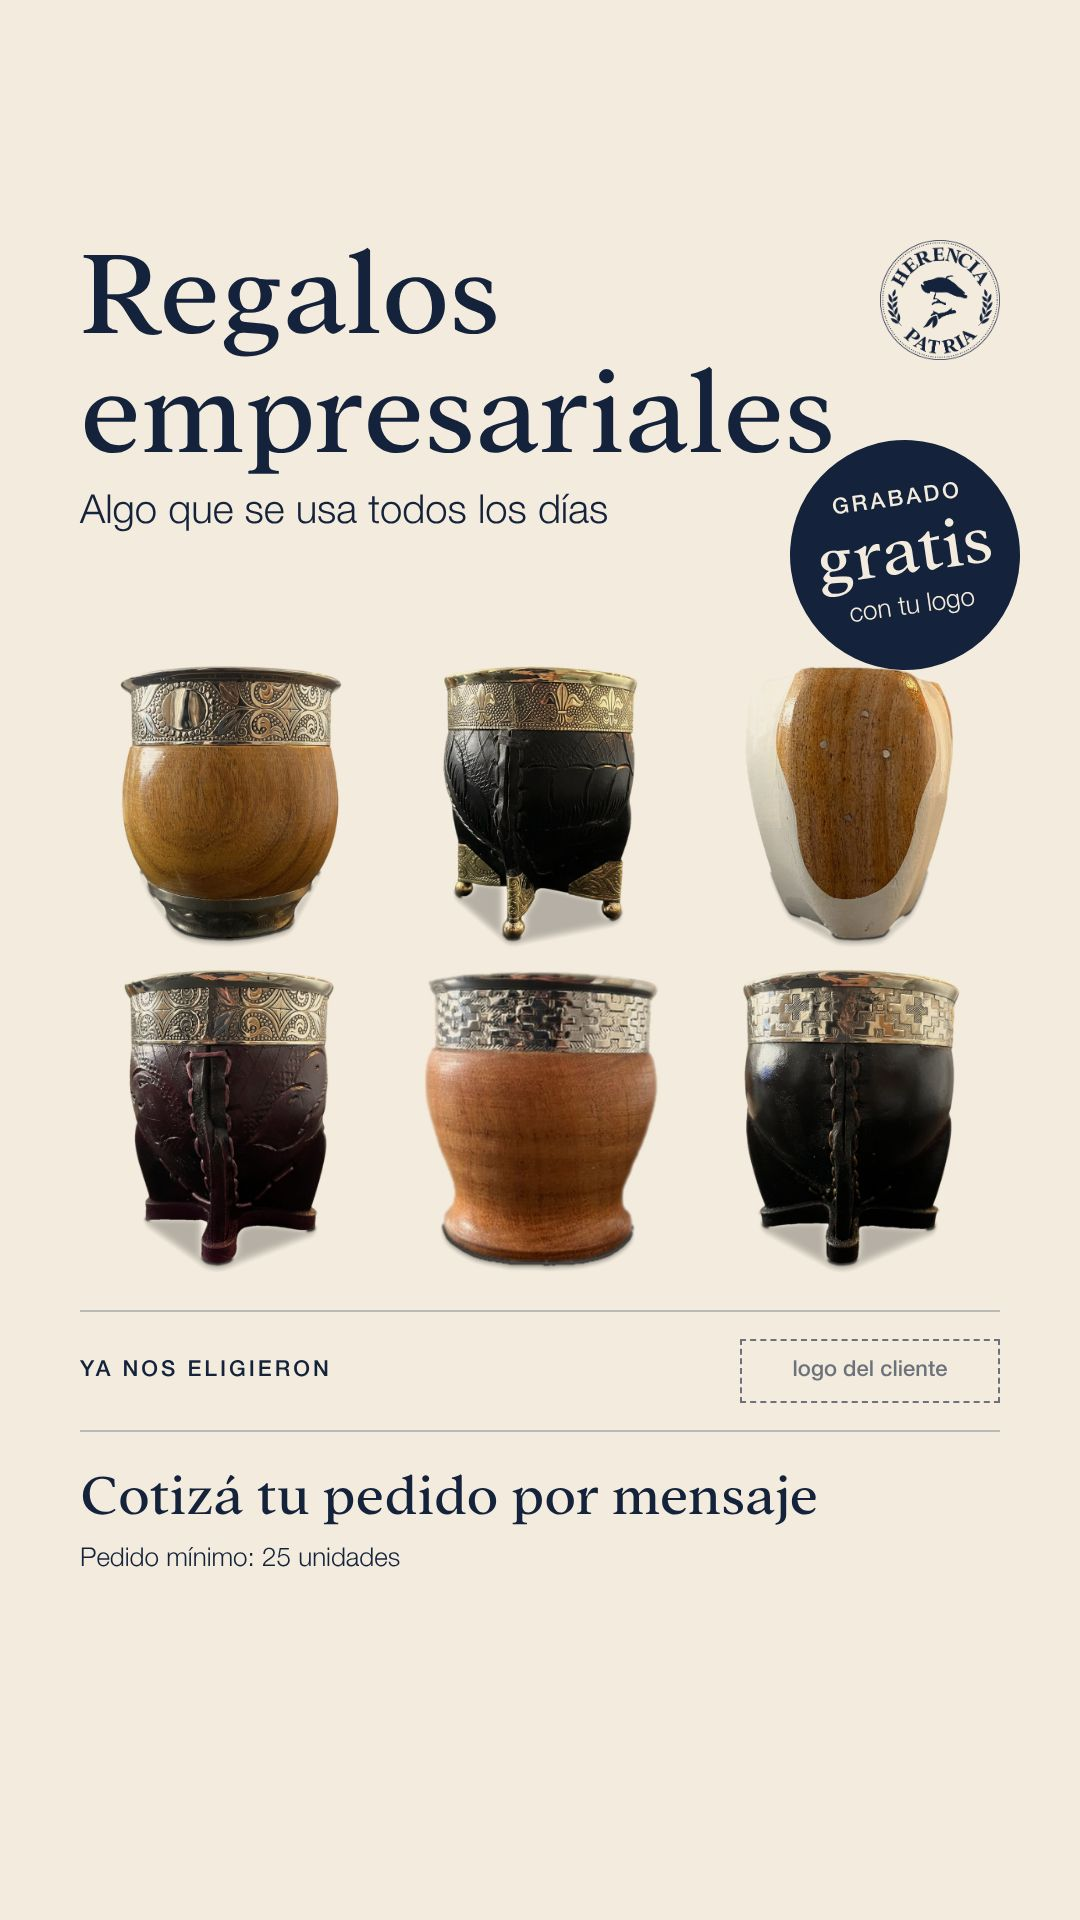
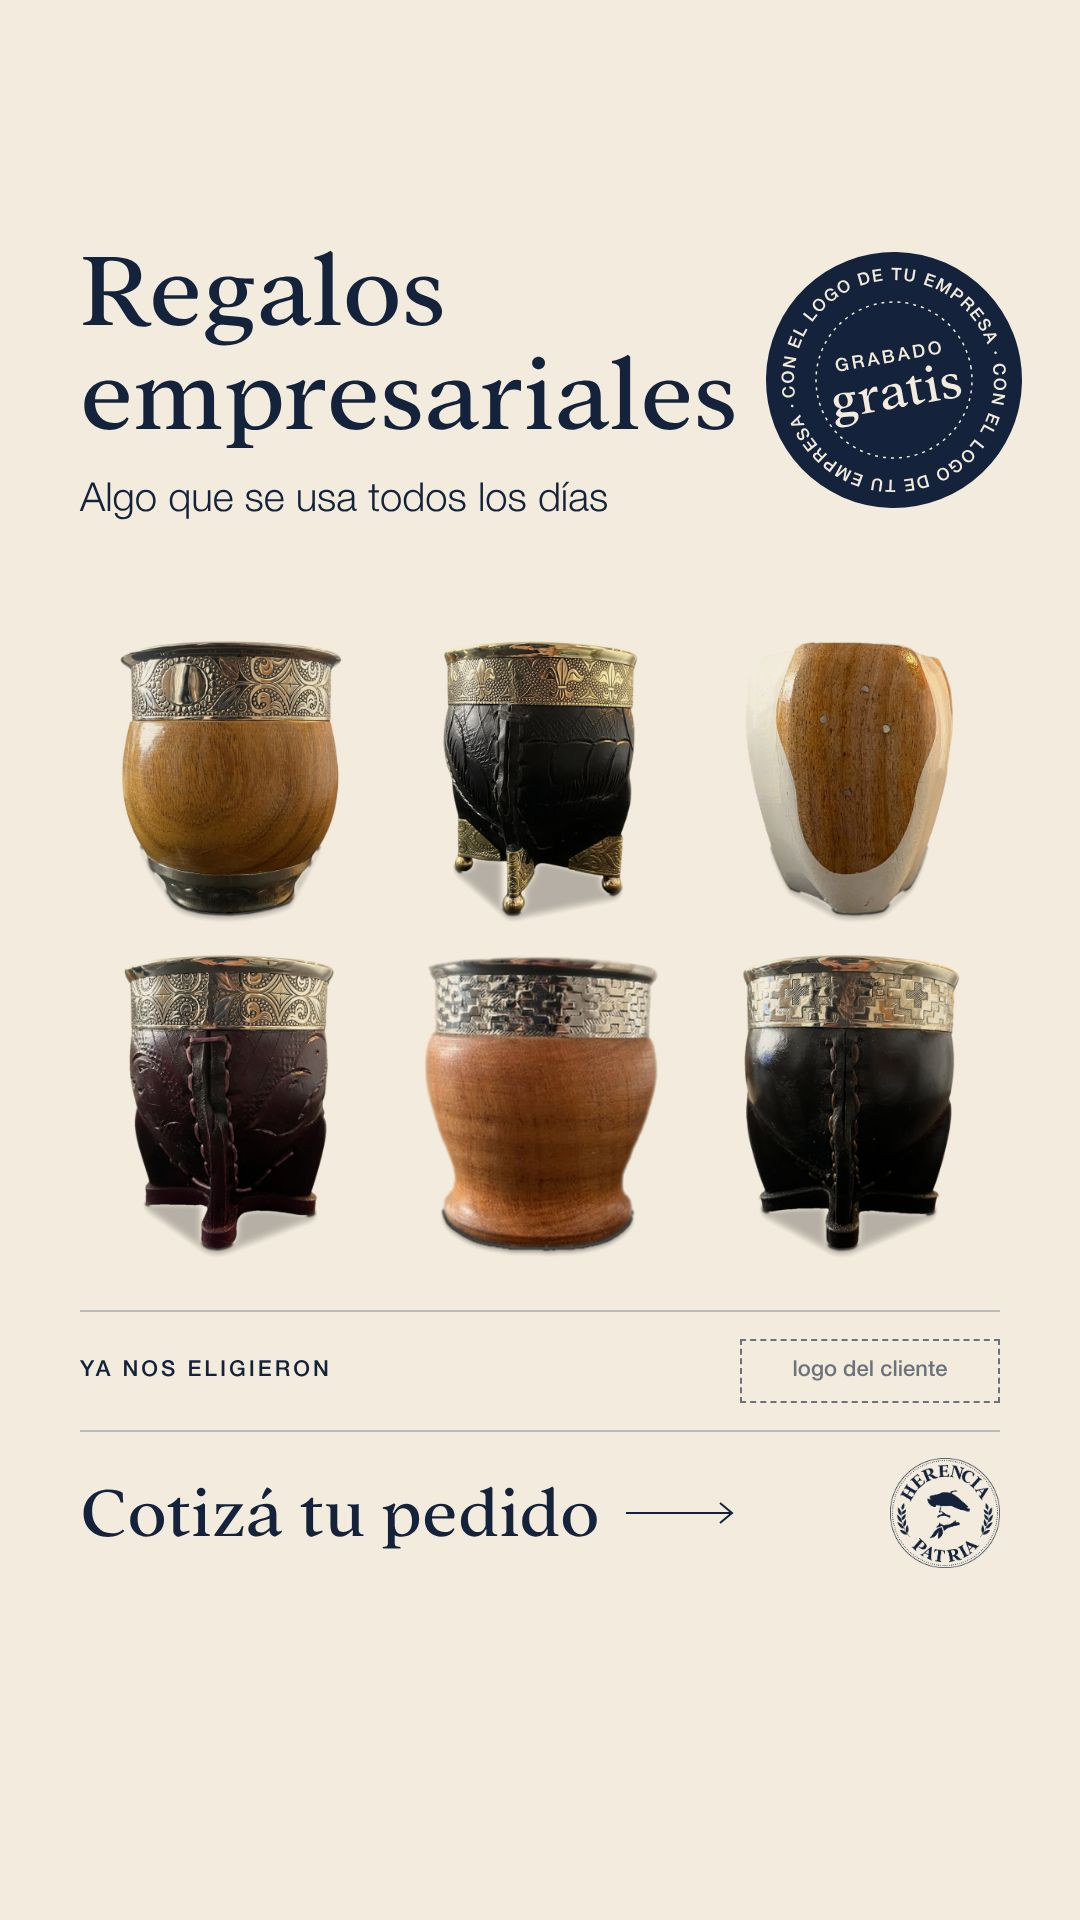
Historia empresarial: sello del grabado gratis junto al título y llamado con flecha
El beneficio pasa a ser un sello tipo lacre con la leyenda en el anillo, al
lado del título y lejos de los mates; Cotizá tu pedido con una flecha fina y
el sello de la marca; sin el pedido mínimo.

Claude-Session: https://claude.ai/code/session_012H3xPSmbqKoMmc2aK7okNH

diff --git a/src/HerenciaPatria/HistoriaEmpresas.tsx b/src/HerenciaPatria/HistoriaEmpresas.tsx
@@ -5,11 +5,11 @@ import { colors, fonts } from "./brand";
 // de año, pensada como anuncio. Fondo crema y todo en azul (sólo los dos
 // colores de la marca, más el de los mates), con las letras de la marca:
 // Addington para el título y el llamado, Helvetica Neue para el resto.
-// Arriba el título grande a la izquierda y el sello; el beneficio (el grabado
-// gratis) es una etiqueta azul redonda; al medio los mates reales, grandes
-// (fotos de producto sobre blanco, que con "multiply" se funden con el
-// crema); abajo quiénes ya los eligieron, el llamado y la letra chica, entre
-// filetes finos. Lo que hay que leer va entre 230 y 1600: Instagram tapa
+// Arriba el título grande a la izquierda y, a su lado, el beneficio (el
+// grabado gratis) como un sello tipo lacre; al medio los mates reales,
+// grandes (fotos de producto sobre blanco, que con "multiply" se funden con
+// el crema); abajo, entre filetes finos, quiénes ya los eligieron, y el
+// llamado con una flecha y el sello de la marca. Lo que hay que leer va entre 230 y 1600: Instagram tapa
 // arriba el perfil y abajo la respuesta o el botón del anuncio.
 
 const margen = 80;
@@ -18,7 +18,8 @@ export const HistoriaEmpresas: React.FC<{
   readonly mates: string[][];
   readonly titulo: string[];
   readonly bajada: string;
-  // La etiqueta: arriba, grande y abajo.
+  // El sello del beneficio: la leyenda del anillo, grande al centro y arriba
+  // de lo grande.
   readonly etiqueta: [string, string, string];
   // Prueba social: clientes que ya regalaron Herencia, con su logo (el
   // archivo oficial, con permiso del cliente). Sin archivo, un recuadro marca
@@ -26,17 +27,7 @@ export const HistoriaEmpresas: React.FC<{
   readonly confianza: string;
   readonly logos: string[];
   readonly accion: string;
-  readonly letraChica: string;
-}> = ({
-  mates,
-  titulo,
-  bajada,
-  etiqueta,
-  confianza,
-  logos,
-  accion,
-  letraChica,
-}) => {
+}> = ({ mates, titulo, bajada, etiqueta, confianza, logos, accion }) => {
   const rotulo: React.CSSProperties = {
     fontFamily: fonts.sans,
     fontWeight: 500,
@@ -63,9 +54,9 @@ export const HistoriaEmpresas: React.FC<{
       <div
         style={{
           position: "absolute",
-          top: 235,
+          top: 240,
           left: margen,
-          fontSize: 124,
+          fontSize: 108,
           lineHeight: 0.96,
         }}
       >
@@ -73,14 +64,10 @@ export const HistoriaEmpresas: React.FC<{
           <div key={l}>{l}</div>
         ))}
       </div>
-      <Img
-        src={staticFile("logos/herencia-patria-sello-azul.png")}
-        style={{ position: "absolute", top: 240, right: margen, width: 120 }}
-      />
       <div
         style={{
           position: "absolute",
-          top: 490,
+          top: 478,
           left: margen,
           fontFamily: fonts.sans,
           fontWeight: 300,
@@ -89,41 +76,78 @@ export const HistoriaEmpresas: React.FC<{
       >
         {bajada}
       </div>
-      {/* El beneficio: una etiqueta redonda, inclinada, sobre los mates. */}
-      <div
+      {/* El beneficio: un sello azul al lado del título, como un lacre, con
+          la leyenda en el anillo y "gratis" grande al centro. Lejos de los
+          mates, para que no los tape. */}
+      <svg
+        viewBox="0 0 260 260"
         style={{
           position: "absolute",
-          top: 440,
-          right: 60,
-          width: 230,
-          height: 230,
-          borderRadius: "50%",
-          background: colors.azul,
-          color: colors.crema,
-          display: "flex",
-          flexDirection: "column",
-          alignItems: "center",
-          justifyContent: "center",
-          textAlign: "center",
-          transform: "rotate(-8deg)",
-          zIndex: 1,
+          top: 250,
+          right: 56,
+          width: 260,
+          height: 260,
+          transform: "rotate(-10deg)",
         }}
       >
-        <div style={rotulo}>{etiqueta[0]}</div>
-        <div style={{ fontSize: 72, lineHeight: 1, margin: "2px 0 6px" }}>
-          {etiqueta[1]}
-        </div>
-        <div style={{ fontFamily: fonts.sans, fontWeight: 300, fontSize: 26 }}>
+        <defs>
+          <path
+            id="anillo"
+            d="M 130,130 m -100,0 a 100,100 0 1,1 200,0 a 100,100 0 1,1 -200,0"
+          />
+        </defs>
+        <circle cx={130} cy={130} r={128} fill={colors.azul} />
+        <circle
+          cx={130}
+          cy={130}
+          r={78}
+          fill="none"
+          stroke={colors.crema}
+          strokeWidth={1.5}
+          strokeDasharray="3 5"
+        />
+        <text
+          fill={colors.crema}
+          fontFamily={fonts.sans}
+          fontWeight={500}
+          fontSize={17}
+          style={{ textTransform: "uppercase" }}
+        >
+          <textPath href="#anillo" textLength={622} lengthAdjust="spacing">
+            {etiqueta[0]}
+          </textPath>
+        </text>
+        <text
+          x={130}
+          y={112}
+          textAnchor="middle"
+          fill={colors.crema}
+          fontFamily={fonts.sans}
+          fontWeight={500}
+          fontSize={18}
+          letterSpacing={3}
+          style={{ textTransform: "uppercase" }}
+        >
           {etiqueta[2]}
-        </div>
-      </div>
+        </text>
+        <text
+          x={130}
+          y={158}
+          textAnchor="middle"
+          fill={colors.crema}
+          fontFamily={fonts.serif}
+          fontSize={54}
+        >
+          {etiqueta[1]}
+        </text>
+      </svg>
       {/* Los mates, grandes: dos filas, la de atrás un poco más chica. */}
       {mates.map((fila, i) => (
         <div
           key={fila.join()}
           style={{
             position: "absolute",
-            top: i === 0 ? 615 : 915,
+            top: i === 0 ? 590 : 900,
             left: 0,
             right: 0,
             display: "flex",
@@ -187,28 +211,32 @@ export const HistoriaEmpresas: React.FC<{
         )}
       </div>
       <div style={{ ...filete, top: 1430 }} />
-      {/* El llamado: texto, no botón (el anuncio trae el suyo). */}
+      {/* El llamado: texto con una flecha fina, no botón (el anuncio trae
+          el suyo), y el sello de la marca al lado. */}
       <div
         style={{
           position: "absolute",
-          top: 1462,
+          top: 1458,
           left: margen,
-          fontSize: 58,
+          right: margen,
+          display: "flex",
+          alignItems: "center",
+          gap: 26,
         }}
       >
-        {accion}
-      </div>
-      <div
-        style={{
-          position: "absolute",
-          top: 1545,
-          left: margen,
-          fontFamily: fonts.sans,
-          fontWeight: 300,
-          fontSize: 26,
-        }}
-      >
-        {letraChica}
+        <div style={{ fontSize: 72 }}>{accion}</div>
+        <svg width={110} height={24} viewBox="0 0 110 24">
+          <path
+            d="M 0 12 H 106 M 94 2 L 106 12 L 94 22"
+            fill="none"
+            stroke={colors.azul}
+            strokeWidth={2}
+          />
+        </svg>
+        <Img
+          src={staticFile("logos/herencia-patria-sello-azul.png")}
+          style={{ marginLeft: "auto", width: 110 }}
+        />
       </div>
     </AbsoluteFill>
   );

diff --git a/src/Root.tsx b/src/Root.tsx
@@ -410,11 +410,14 @@ export const RemotionRoot: React.FC = () => {
           ],
           titulo: ["Regalos", "empresariales"],
           bajada: "Algo que se usa todos los días",
-          etiqueta: ["Grabado", "gratis", "con tu logo"],
+          etiqueta: [
+            "Con el logo de tu empresa · con el logo de tu empresa ·",
+            "gratis",
+            "Grabado",
+          ],
           confianza: "Ya nos eligieron",
           logos: [],
-          accion: "Cotizá tu pedido por mensaje",
-          letraChica: "Pedido mínimo: 25 unidades",
+          accion: "Cotizá tu pedido",
         }}
       />
       {/* Variante con el sello y la dedicatoria escrita.
